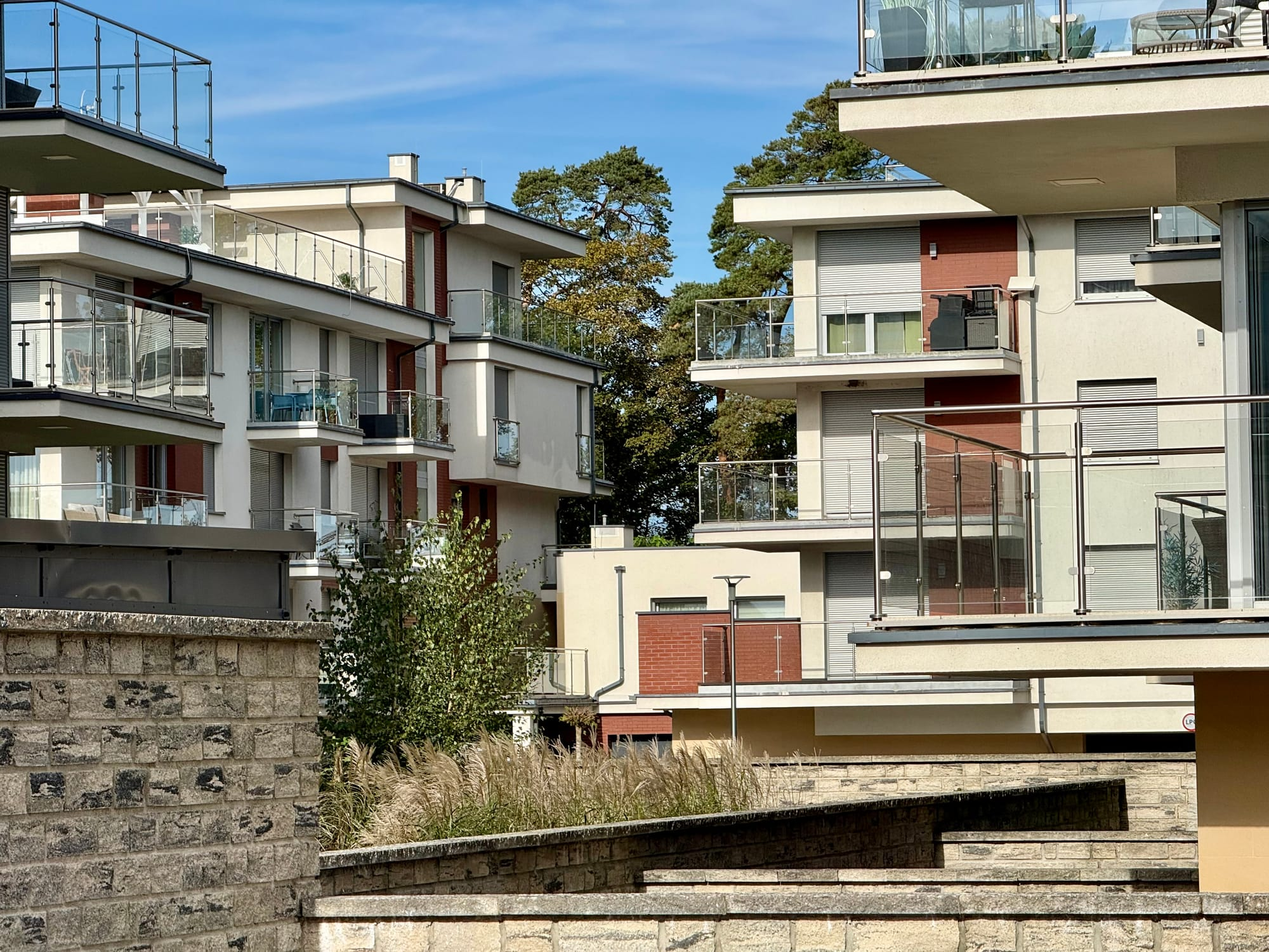
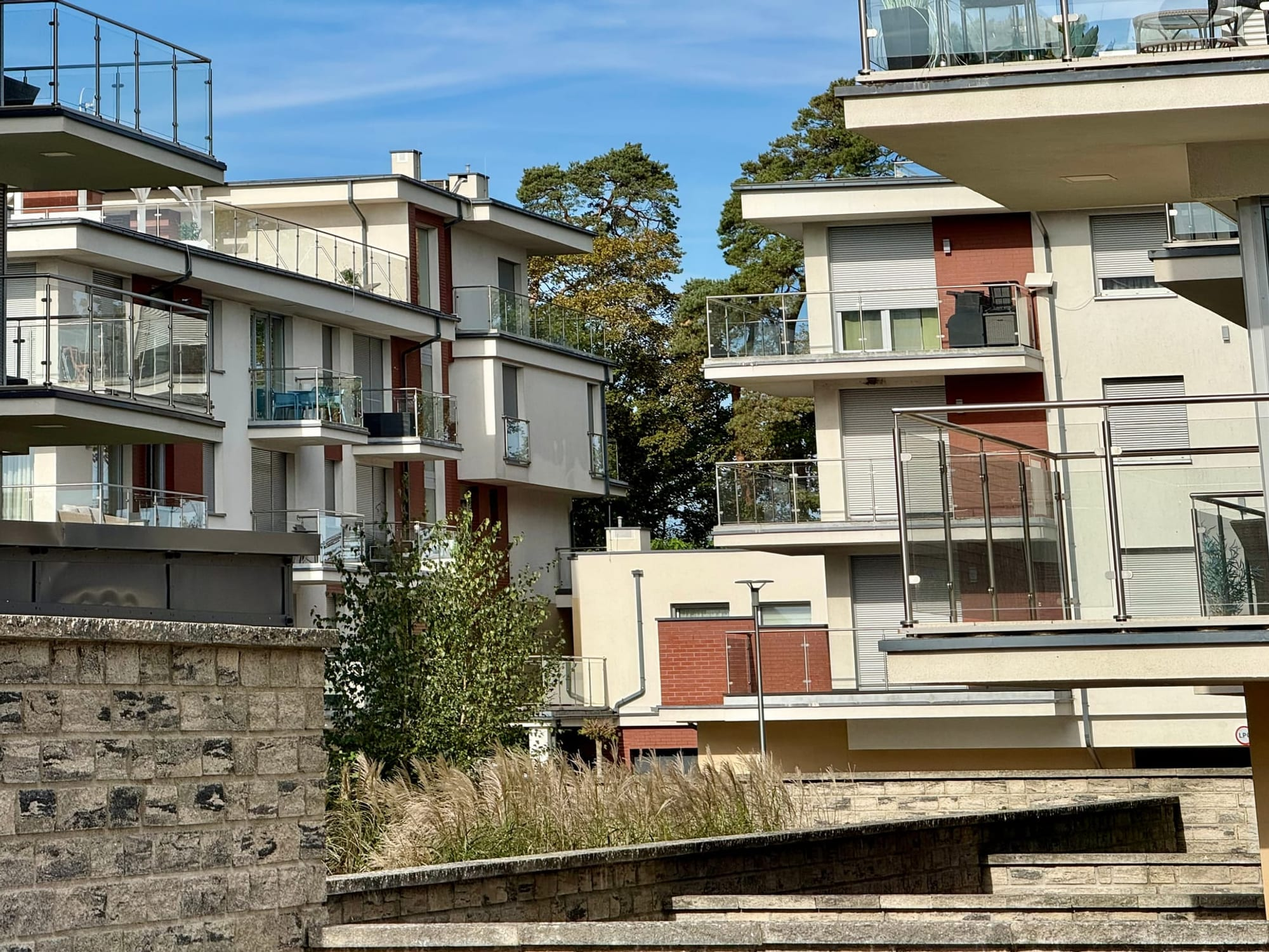
Refactor code structure for improved readability and maintainability

diff --git a/frontend/src/pages/RealizationDetail.css b/frontend/src/pages/RealizationDetail.css
@@ -81,6 +81,7 @@
   width: 100%;
   height: 100%;
   object-fit: cover;
+  object-position: center top; /* zdjęcia budynków: przycinamy tylko od dołu, góra kompozycji zostaje */
   transition: filter 0.5s ease;
 }
 
@@ -113,6 +114,7 @@
   width: 100%;
   height: 100%;
   object-fit: cover;
+  object-position: center top; /* zdjęcia budynków: przycinamy tylko od dołu, góra kompozycji zostaje */
   filter: grayscale(1);
   transition: filter 0.2s ease;
 }

diff --git a/frontend/src/components/RippleDistortion.tsx b/frontend/src/components/RippleDistortion.tsx
@@ -89,7 +89,8 @@ vec2 coverUV(vec2 uv) {
   vec2 safe = max(uTextureSize, vec2(1.0));
   vec2 s = uResolution / safe;
   vec2 scaledSize = safe * max(s.x, s.y);
-  vec2 offset = (uResolution - scaledSize) * 0.5;
+  // poziomo na środku, pionowo od góry — nadmiar zdjęcia ucinany tylko od dołu
+  vec2 offset = vec2((uResolution.x - scaledSize.x) * 0.5, uResolution.y - scaledSize.y);
   return (uv * uResolution - offset) / scaledSize;
 }
 

diff --git a/frontend/src/components/AccordionGallery.css b/frontend/src/components/AccordionGallery.css
@@ -72,6 +72,7 @@
   width: 100%;
   height: 100%;
   object-fit: cover;
+  object-position: center top; /* zdjęcia budynków: przycinamy tylko od dołu, góra kompozycji zostaje */
   display: block;
   user-select: none;
   -webkit-user-drag: none;

diff --git a/frontend/src/components/RippleDistortion.css b/frontend/src/components/RippleDistortion.css
@@ -23,5 +23,6 @@
 
 .ripple-distortion__fallback {
   object-fit: cover;
+  object-position: center top; /* zdjęcia budynków: przycinamy tylko od dołu, góra kompozycji zostaje */
   transition: opacity 0.25s ease;
 }
